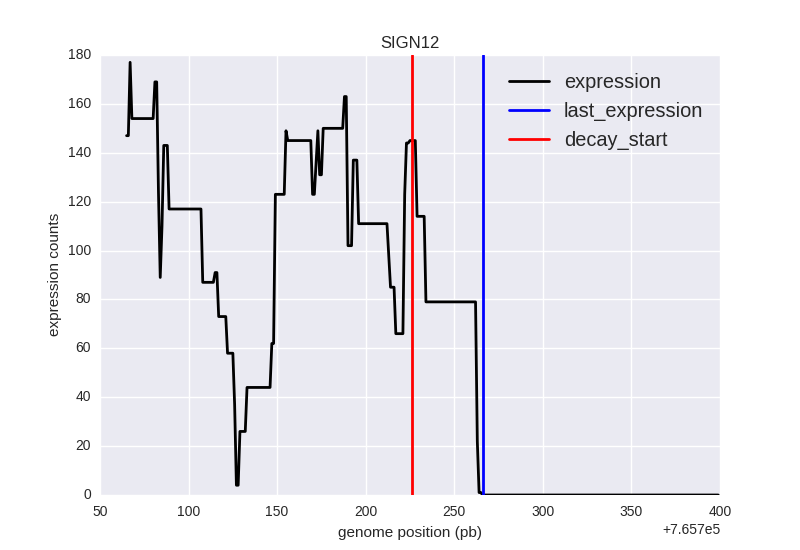
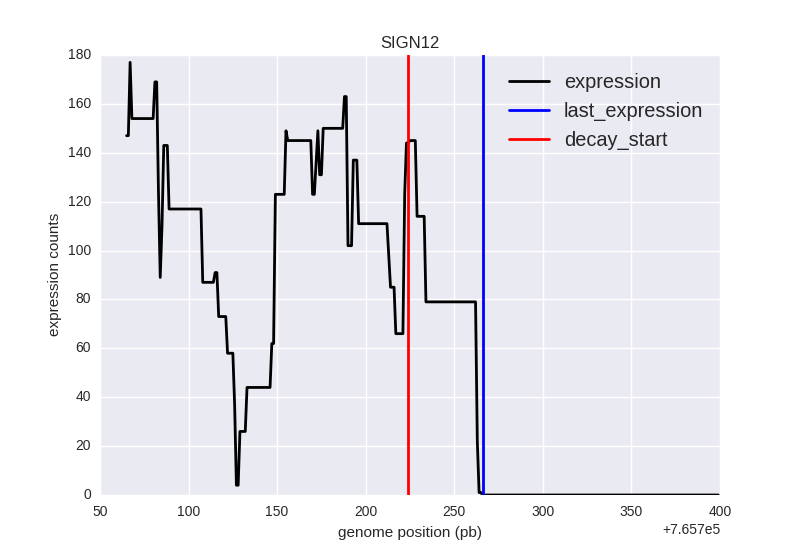
novel

Changed region(s): [[0.5, 0.0927, 0.5312, 0.8964]]

diff --git a/finddrops.py b/finddrops.py
@@ -19,6 +19,7 @@
 import sys, os
 import numpy as np
 import matplotlib.pyplot as plt
+import utils as u
 import seaborn
 
 #####################
@@ -63,27 +64,7 @@ def intergenic_mean(filename, header=True):
 
     return(sum_distan/float(number_ann))
 
-
-def return_column(filename, index, header=True):
-    """
-    Given a file with columns
-    Returns a list with the column determined by index (starting in 0)
-    """
-
-    fi = open(filename, 'r')
-    column = []
-
-    for line in fi:
-        if header == True:
-            header = False
-        else:
-            column.append(float(line.strip().split()[index]))
-
-    fi.close()
-    return(column)
-
-
-def decay_score(your_list, index):
+def decay_score(your_list, index, wooble=0.0):
     """
     Define the decay score for a list of numbers
 
@@ -104,21 +85,26 @@ def decay_score(your_list, index):
 
     Additionally, if the termination is sharp, the decaysc will match the last expression base, thing that will not occur if the termination
     is in decay.
+
+    Wooble is dependant of the noise in the expression profile. It is considered to determine the decaysc as a 1 or a 2 in the decay tail
+    can be considered as the first with positive expression but it comes from the oscllation of the profile.
     """
 
-    a = np.std(your_list[:index+1])                    # +1 include last expression value
+    stdsc = np.std(your_list[:index+1])                    # +1 include last expression value
     first_derivative = np.diff(your_list[:index+2])     # +2 include first 0
-    b = min(first_derivative)
-    c = list(first_derivative)[index]
+    maxsc = min(first_derivative)
+    dropsc = list(first_derivative)[index]
 
+    # This is more tricky...
     # Define the position where the decay starts:
     # 1. Find the last positive value in the first derivative:
-    positive_indexes = [i for i, e in enumerate(first_derivative) if e > 0]
     # 2. The maximum will correspond to the last position, we have to sum one to point to the
     # first nucleotide after which the expression only decreases
+
+    positive_indexes = [i for i, e in enumerate(first_derivative) if (e-wooble) > 0.0]
     decay_start = max(positive_indexes)+1
 
-    return([a, b, c, decay_start])
+    return([stdsc, maxsc, dropsc, decay_start])
 
 
 def plot_drop(start, your_list, main_title, last_expression, decay_start):
@@ -154,7 +140,7 @@ def plot_drop(start, your_list, main_title, last_expression, decay_start):
     plt.close()
 
 
-def find_drops(annotation_file, expression_file, expression_index, expression_threshold=0.0, expression_determinant=4, decay_window=200, header_ann=True, header_exp=True):
+def find_drops(annotation_file, expression_file, expression_index, expression_threshold=0.0, decay_variability = 0.0, expression_determinant=4, decay_window=200, header_ann=True, header_exp=True):
     """
     Given a pile up file,
     returns the positions with potential termination signals
@@ -188,7 +174,7 @@ def find_drops(annotation_file, expression_file, expression_index, expression_th
     # Load the expression profile and start the sliding window process
     # While processing, append the results to the dictionary of results
     results = {}
-    expression = return_column(expression_file, expression_index)
+    expression = u.return_column(expression_file, expression_index)
 
     i = 0
     c = 1
@@ -199,7 +185,7 @@ def find_drops(annotation_file, expression_file, expression_index, expression_th
 
         # Only analyze the window if the expression drops below the threshold in the no_exp_window after a value with expression:
         if current_window[:decay_window+1].count(expression_threshold) == 0.0 and current_window[decay_window-1] != 0 and np.mean(current_window[decay_window+1:]) <= expression_threshold:
-            stdsc, maxsc, dropsc, decaysc = decay_score(current_window, decay_window)
+            stdsc, maxsc, dropsc, decaysc = decay_score(current_window, decay_window, decay_variability)
             identifier = 'SIGN'+str(c)
             last_expression = i+decay_window+1
             decay_start = i+decaysc+1
@@ -232,4 +218,4 @@ def find_drops(annotation_file, expression_file, expression_index, expression_th
 
 if __name__ == "__main__":
 #    find_drops(annotation_file='./datasets/toyset_annotations.txt', expression_file='./datasets/toyset.txt', expression_index=1, header_exp=False)
-    find_drops(annotation_file='../mycorepo/plusTSSTTS.csv', expression_file='./datasets/dsspilesmpn.txt', expression_index=2, expression_determinant=10)
+    find_drops(annotation_file='../mycorepo/plusTSSTTS.csv', expression_file='./datasets/dsspilesmpn.txt', expression_index=2, decay_variability=2.0, expression_determinant=10)

diff --git a/seq_utils.py b/seq_utils.py
@@ -1,0 +1,128 @@
+#/usr/bin/env python
+
+#############################################################
+#
+# seq_utils.py
+#
+# Author : Miravet-Verde, Samuel
+# Written : 04/25/2016
+# Last updated : 04/25/2016
+#
+# Test to detect motifs from sequences given by finddrops
+#
+#############################################################
+
+#####################
+#   PACKAGES LOAD   #
+#####################
+
+import sys, os
+import itertools
+import numpy as np
+import glob
+from scipy.cluster.vq import kmeans, vq
+from finddrops import find_drops
+from Bio import SeqIO
+from Bio.Seq import Seq
+from Bio.Alphabet import generic_dna
+from Bio.SeqRecord import SeqRecord
+
+#####################
+# GENERAL FUNCTIONS #
+#####################
+
+def maxgap(data, max_gap):
+    """
+    Arrange data into groups where successive elements
+    differ by no more than *maxgap*
+
+    The input has to be a list of list with the structure:
+    [['id1', distance between start decay and last expression],['id2',dist2],...,['idn', distn]]
+
+    The output will be a list of lists with the identifiers clustered together by the distances if
+    the difference between them is less than the maxgap
+    [[id1, id2],[id3,..]]
+
+    Example:
+    in: [['id1',1], ['id2',-1], ['id3',2], ['id4',80], ['id5',81], ['id3',82]]
+    out: [['id1','id2','id3'], ['id4','id5','id3']]
+    """
+
+    # Sort the list by the second value (distances)
+    data.sort(key=lambda x: x[1])
+
+    # Separate lists
+    identifiers = [x[0] for x in data]
+    distances   = [x[1] for x in data]
+
+    # Cluster the distances by max gap and return the identifiers groupes
+    groups = []
+    for k, g in itertools.groupby(distances, key=lambda n: n//max_gap):
+        i = len(list(g))
+        groups.append(identifiers[:i])
+        identifiers = identifiers[i:]
+    return groups
+
+
+def kmeans(data, k):
+    """
+    Arrange data into k groups based on a kmeans approach
+
+    The input has to be a list of list with the structure:
+    [['id1', distance between start decay and last expression],['id2',dist2],...,['idn', distn]]
+
+    The output will be a list of lists with the identifiers clustered together by the distances if
+    the difference between them is less than the maxgap
+    [[id1, id2],[id3,..]]
+
+    Example:
+    in: [['id1',1], ['id2',-1], ['id3',2], ['id4',80], ['id5',81], ['id3',82]]
+    out: [['id1','id2','id3'], ['id4','id5','id3']]
+    """
+
+    # Sort the list by the second value (distances)
+    data.sort(key=lambda x: x[1])
+
+    # Separate lists
+    identifiers = [x[0] for x in data]
+    distances   = [x[1] for x in data]
+
+    # Cluster the distances by max gap and return the identifiers groupes
+    groups = []
+    for k, g in itertools.groupby(distances, key=lambda n: n//max_gap):
+        i = len(list(g))
+        groups.append(identifiers[:i])
+        identifiers = identifiers[i:]
+    return groups
+
+#####################
+#      CLASSES      #
+#####################
+
+
+
+#####################
+#     EXECUTION     #
+#####################
+
+if __name__ == "__main__":
+
+    # Generate the list of candidates
+    candidates = find_drops(annotation_file='./datasets/toyset_annotations.txt', expression_file='./datasets/toyset.txt', expression_index=1, header_exp=False)
+
+    # This is a dictionary, to group we have to select a feature explaining more differences, in this dictionary we have different features:
+    # 'SIGN7': [6986, 7211, 7001, 7087, 48.566111083270691, -68.0, -4.6440034020500001]
+    # ident : [start, end,decay_p, 0exp, std expression, max_change, diff exp btw last and 0exp]
+
+    # The most specific value for classes is the difference between decay position and 0exp
+    # Reformat the dictionary
+
+    data = []
+    for key, values in candidates.iteritems():
+        distance = values[3]-values[2]
+        data.append([key, distance])
+
+    # Group by
+    print(group_by(data, 'maxgap'))
+    print(group_by(data, 'kmeans'))
+

diff --git a/utils.py b/utils.py
@@ -1,0 +1,54 @@
+#/usr/bin/env python
+
+#############################################################
+#
+# utils.py
+#
+# Author : Miravet-Verde, Samuel
+# Written : 04/25/2016
+# Last updated : 04/25/2016
+#
+# General utils functions
+#
+#############################################################
+
+#####################
+#   PACKAGES LOAD   #
+#####################
+
+import sys, os
+
+#####################
+# GENERAL FUNCTIONS #
+#####################
+
+def return_column(filename, index, header=True):
+    """
+    Given a file with columns
+    returns a list with the numbers appearing in tha column
+    """
+
+    fi = open(filename, 'r')
+    column = []
+
+    for line in fi:
+        if header:
+            header = False
+        else:
+            column.append(float(line.strip().split()[index]))
+
+    fi.close()
+
+    return column
+
+
+#####################
+#      CLASSES      #
+#####################
+
+
+
+#####################
+#     EXECUTION     #
+#####################
+

diff --git a/README.md b/README.md
@@ -12,6 +12,8 @@ At the moment, we have the following functions:
  - [*_finddrops_*](#finddrops) : detect drops in the expression profile
  - [*_findmotifs_*](#findmotifs) : clustering of drops and search of common motifs between groups by MEME
 
+Additionally we have some scripts to perform basic computations: _utils.py_ for general problems and _seq\_utils_.py for specific Sequencing problems.
+
 ## create\_toyset
 
 Very basic script to generate a toy set of annotation, expression and fasta genome with known features.
